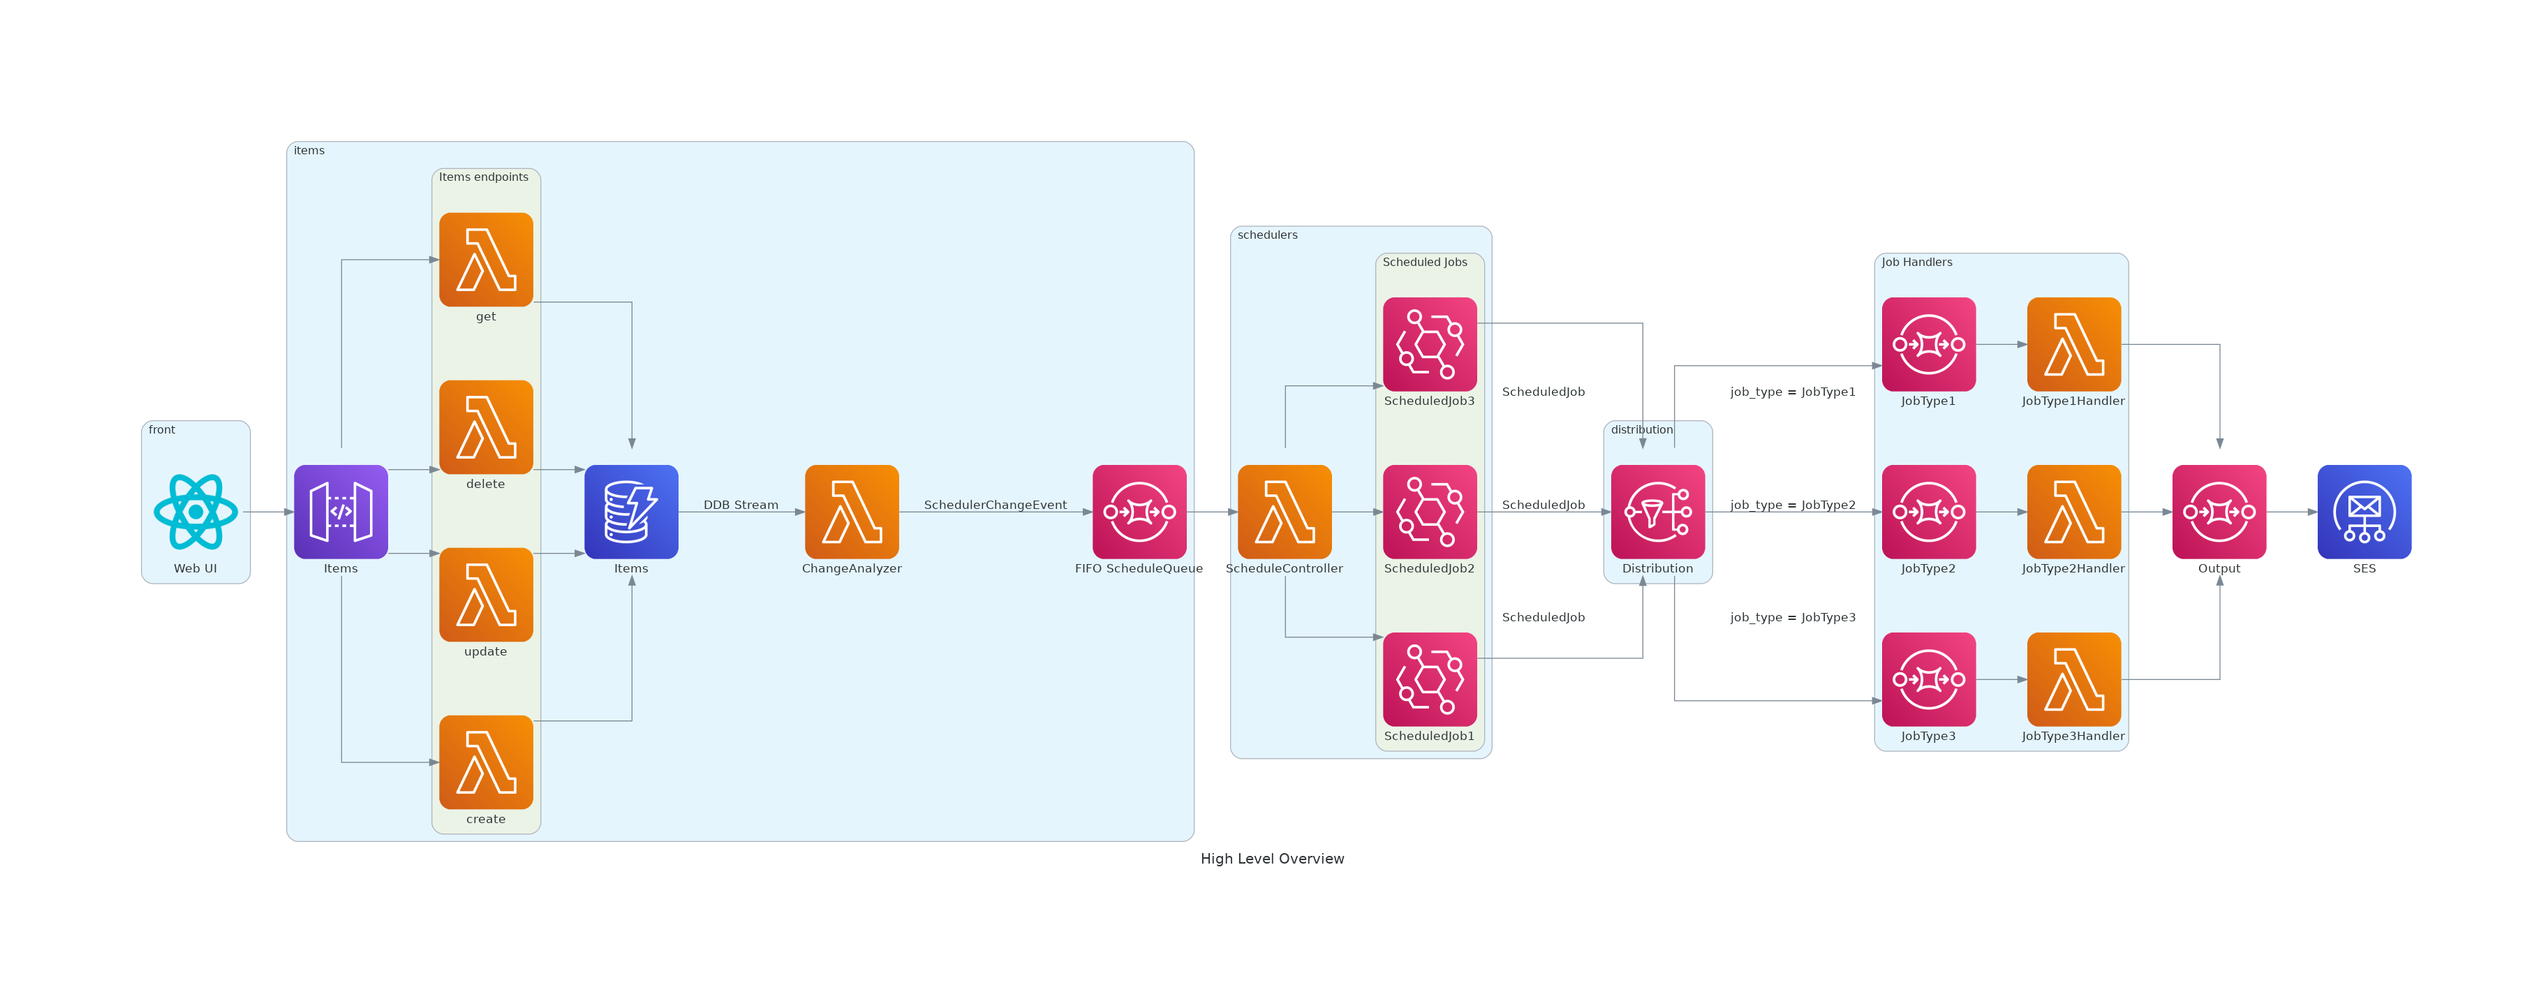
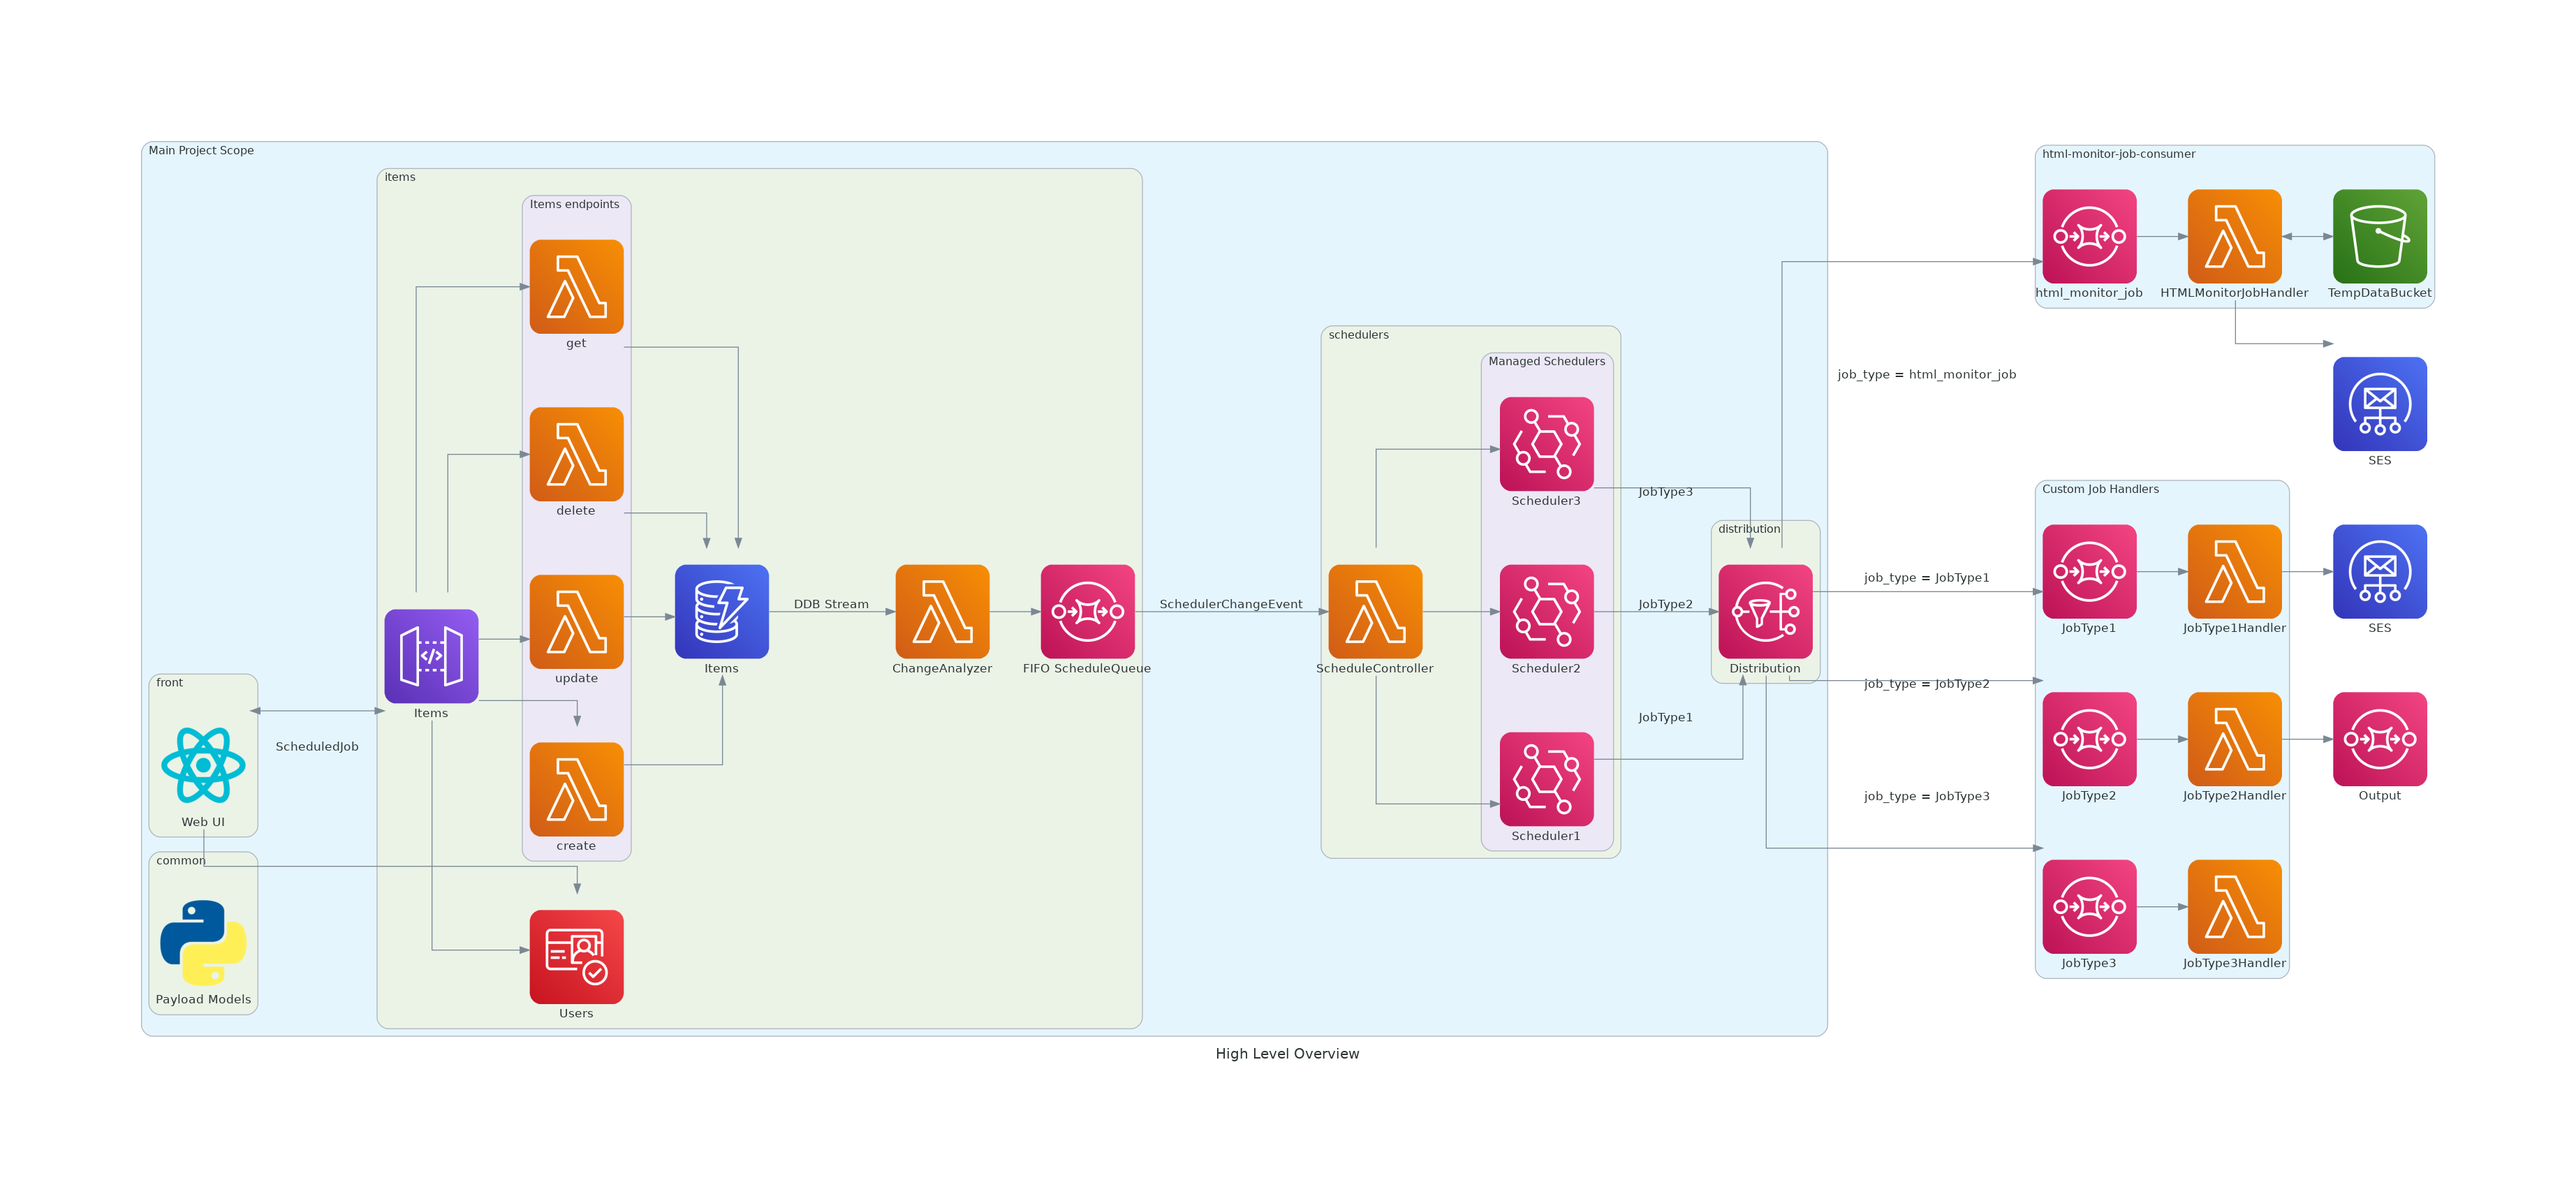
docs: update diagram

diff --git a/docs/diagrams/high_level_overview.py b/docs/diagrams/high_level_overview.py
@@ -4,41 +4,55 @@ from diagrams.aws.database import DDB
 from diagrams.aws.engagement import SES
 from diagrams.aws.integration import SNS, SQS, Eventbridge
 from diagrams.aws.network import APIGateway
+from diagrams.aws.security import Cognito
+from diagrams.aws.storage import S3
 from diagrams.programming.framework import React
+from diagrams.programming.language import Python
 
 with Diagram("High Level Overview", show=False, outformat=["png"]):
-    with Cluster("front"):
-        ui_source = React("Web UI")
+    with Cluster("Main Project Scope"):
+        with Cluster("front"):
+            ui_source = React("Web UI")
 
-    with Cluster("items"):
-        source = APIGateway("Items")
+        with Cluster("common"):
+            common_models = Python("Payload Models")
 
-        with Cluster("Items endpoints"):
-            items_endpoints = [
-                Lambda("create"),
-                Lambda("update"),
-                Lambda("delete"),
-                Lambda("get"),
-            ]
+        with Cluster("items"):
+            cognito = Cognito("Users")
+            source = APIGateway("Items")
 
-        items_db = DDB("Items")
-        items_db_stream_lambda = Lambda("ChangeAnalyzer")
-        item_changes_sqs = SQS("FIFO ScheduleQueue")
+            with Cluster("Items endpoints"):
+                items_endpoints = [
+                    Lambda("create"),
+                    Lambda("update"),
+                    Lambda("delete"),
+                    Lambda("get"),
+                ]
 
-    with Cluster("schedulers"):
-        item_changes_lambda = Lambda("ScheduleController")
-        with Cluster("Scheduled Jobs"):
-            scheduled_jobs_eventbridge = [
-                Eventbridge("ScheduledJob1"),
-                Eventbridge("ScheduledJob2"),
-                Eventbridge("ScheduledJob3"),
-            ]
+            items_db = DDB("Items")
+            items_db_stream_lambda = Lambda("ChangeAnalyzer")
+            item_changes_sqs = SQS("FIFO ScheduleQueue")
 
-    with Cluster("distribution"):
-        distribution_sns = SNS("Distribution")
-    # potential_outside_source = Rack("Outside triggerer")
+        with Cluster("schedulers"):
+            item_changes_lambda = Lambda("ScheduleController")
+            with Cluster("Managed Schedulers"):
+                scheduled_jobs_eventbridge = [
+                    Eventbridge("Scheduler1"),
+                    Eventbridge("Scheduler2"),
+                    Eventbridge("Scheduler3"),
+                ]
 
-    with Cluster("Job Handlers"):
+        with Cluster("distribution"):
+            distribution_sns = SNS("Distribution")
+
+    with Cluster("html-monitor-job-consumer"):
+        html_handler_sqs = [SQS("html_monitor_job")]
+
+        html_handler_lambda = Lambda("HTMLMonitorJobHandler")
+
+        html_data_bucket = S3("TempDataBucket")
+
+    with Cluster("Custom Job Handlers"):
         job_handlers_sqs = [SQS("JobType1"), SQS("JobType2"), SQS("JobType3")]
 
         job_handlers_lambdas = [
@@ -49,29 +63,49 @@ with Diagram("High Level Overview", show=False, outformat=["png"]):
 
     output = SQS("Output")
     mail_sender = SES("SES")
+    mail_sender_html = SES("SES")
 
+    ui_edge = Edge(label="ScheduledJob")
+
+    ui_source >> Edge() >> cognito
+    source >> Edge() >> cognito
     (
         ui_source
-        >> source
+        >> ui_edge
+        << source
         >> items_endpoints
         >> items_db
         >> Edge(label="DDB Stream")
         >> items_db_stream_lambda
     )
-    items_db_stream_lambda >> Edge(label="SchedulerChangeEvent") >> item_changes_sqs
+    items_db_stream_lambda >> item_changes_sqs
     (
         item_changes_sqs
+        >> Edge(label="SchedulerChangeEvent")
         >> item_changes_lambda
         >> scheduled_jobs_eventbridge
-        >> Edge(label="ScheduledJob")
-        >> distribution_sns
     )
+
+    for index, scheduler in enumerate(scheduled_jobs_eventbridge):
+        scheduler >> Edge(label=f"JobType{index + 1}") >> distribution_sns
+
     for index, handler in enumerate(job_handlers_sqs):
         distribution_sns >> Edge(label=f"job_type = JobType{index + 1}") >> handler
 
     for sqs, handler in zip(job_handlers_sqs, job_handlers_lambdas):
         sqs >> handler
-        handler >> output
+    #    handler >> output
+    job_handlers_lambdas[0] >> mail_sender
+    job_handlers_lambdas[1] >> output
 
-    output >> mail_sender
+    (
+        distribution_sns
+        >> Edge(label=f"job_type = html_monitor_job")
+        >> html_handler_sqs
+        >> html_handler_lambda
+        >> mail_sender_html
+    )
+    html_handler_lambda >> Edge() << html_data_bucket
+    # output >> mail_sender
+    # potential_outside_source = Python("Custom triggerer")
     # potential_outside_source >> distribution_sns
